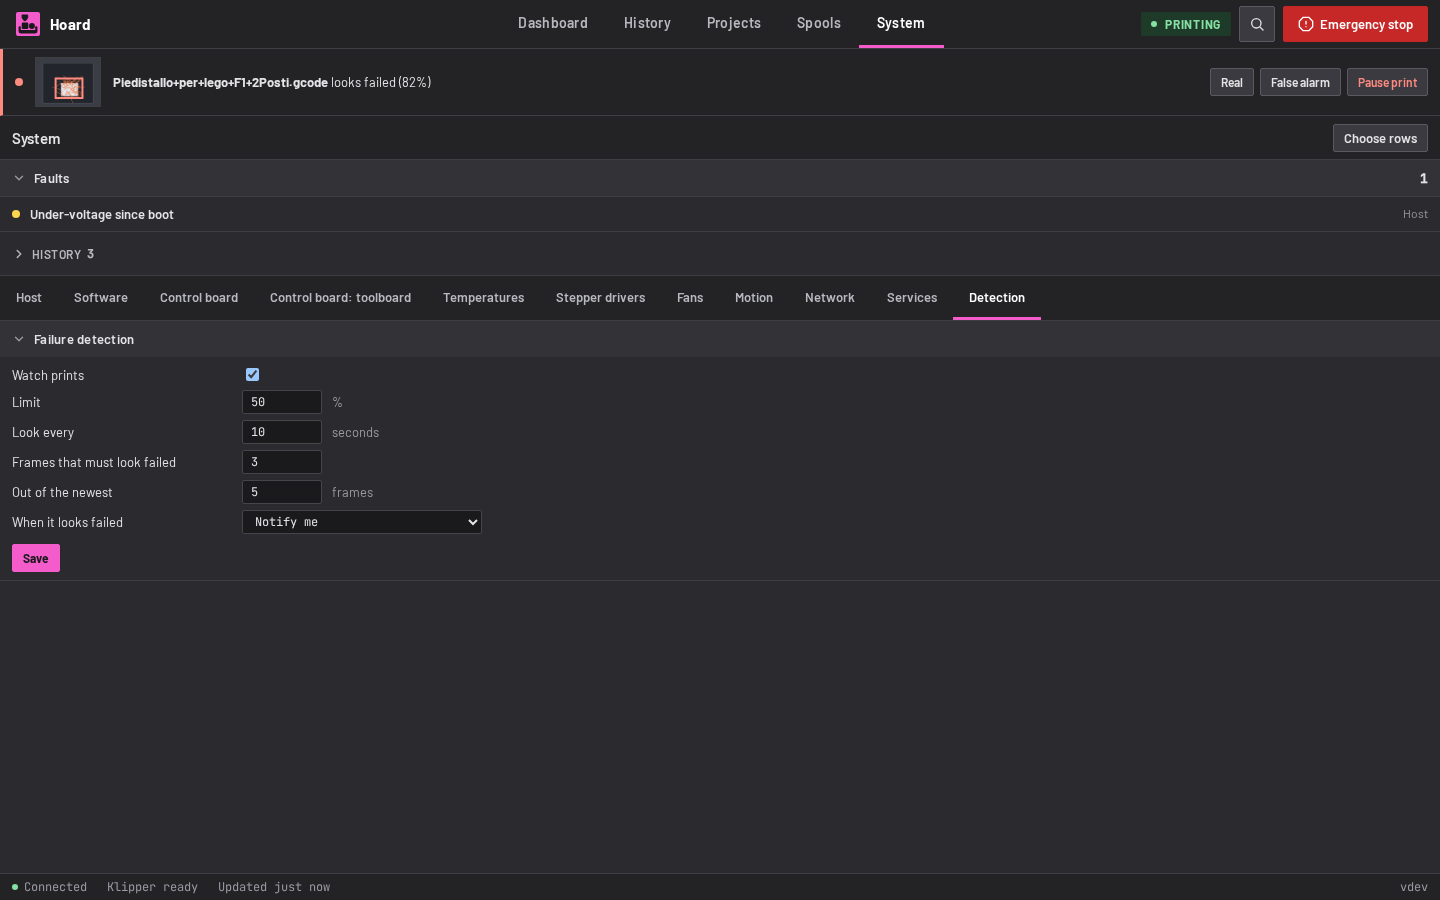
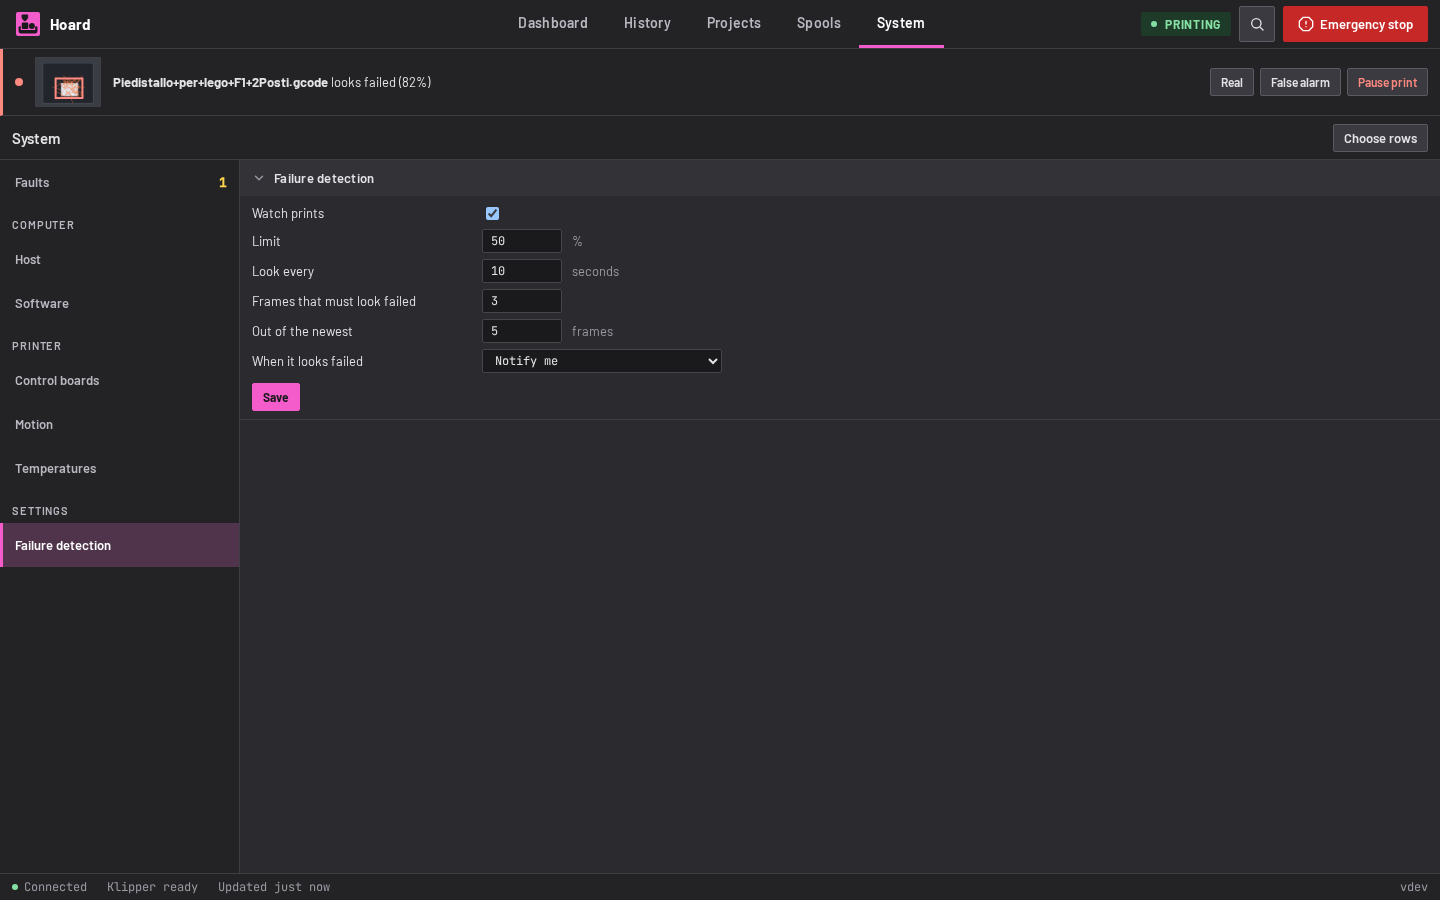
feat(system): related report sections on one page, listed by heading, with Faults and detection as pages
A list on the left (a page of its own on a phone) replaces the tabs: Faults, then the
Computer and Printer pages, then Failure detection under Settings. Host holds the host,
storage and network; Software the software and services; Control boards every board;
Motion the motion, stepper drivers and filament sensors; Temperatures the temperatures
and fans. A section nobody knows goes on Other. The references are rendered from the
redrawn boards.

diff --git a/frontend/src/pages/system-page.ts b/frontend/src/pages/system-page.ts
@@ -6,12 +6,15 @@ import '../components/detection-settings'
 import { renderIcon } from '../icons'
 import { formatPrintDuration } from '../print-history-list'
 import type { FaultRecord, SystemFault, SystemReport, SystemRow, SystemSection } from '../types'
+import { groupSections } from './system-pages'
+import type { SystemPageEntry } from './system-pages'
 import '../styles/system.css'
 
 type StopFunction = () => void
 type LoadState = 'loading' | 'ready' | 'error'
 
-const DETECTION_TAB = 'detection'
+const FAULTS_PAGE = 'faults'
+const DETECTION_PAGE = 'detection'
 
 const REFRESH_MILLISECONDS = 10_000
 const MILLISECONDS_PER_SECOND = 1000
@@ -59,7 +62,7 @@ export class SystemPage extends LitElement {
   @state() private isChoosingRows = false
   @state() private hiddenKeys: string[] = []
   @state() private isHistoryOpen = false
-  @state() private chosenTab = ''
+  @state() private openPageKey: string | null = null
 
   private stopRefreshing: StopFunction | null = null
 
@@ -172,47 +175,66 @@ export class SystemPage extends LitElement {
     </section>`
   }
 
-  private visibleSections(report: SystemReport): SystemSection[] {
-    return findVisibleSections(report.sections, this.hiddenKeys)
-  }
-
-  private openTab(sections: SystemSection[]): string {
-    const names = [...sections.map((section) => section.key), DETECTION_TAB]
-    return names.includes(this.chosenTab) ? this.chosenTab : names[0]
-  }
-
-  private renderTab(key: string, title: string, openTab: string): TemplateResult {
-    const isSelected = key === openTab
+  private renderListItem(key: string, title: string, openKey: string, count?: number): TemplateResult {
+    const isSelected = key === openKey
     return html`<button
-      class="system-tab ${isSelected ? 'selected' : ''}"
-      role="tab"
-      aria-selected=${isSelected}
-      @click=${() => (this.chosenTab = key)}
+      class="system-list-item ${isSelected ? 'selected' : ''}"
+      aria-current=${isSelected ? 'page' : nothing}
+      @click=${() => (this.openPageKey = key)}
     >
-      ${title}
+      <span class="system-list-title">${title}</span>
+      ${count === undefined ? nothing : html`<span class="monospace system-list-count">${count}</span>`}
+      <span class="system-list-chevron">${renderIcon('chevron-right', 14, 2.4)}</span>
     </button>`
   }
 
-  private renderTabs(sections: SystemSection[], openTab: string): TemplateResult {
-    return html`<div class="system-tabs" role="tablist" aria-label="System">
-      ${sections.map((section) => this.renderTab(section.key, section.title, openTab))}
-      ${this.renderTab(DETECTION_TAB, 'Detection', openTab)}
+  private renderListGroup(heading: string, pages: SystemPageEntry[], openKey: string): TemplateResult {
+    const pagesUnderHeading = pages.filter((page) => page.heading === heading)
+    return html`<div class="system-list-heading">${heading}</div>
+      ${pagesUnderHeading.map((page) => this.renderListItem(page.key, page.title, openKey))}`
+  }
+
+  private renderList(report: SystemReport, pages: SystemPageEntry[], openKey: string): TemplateResult {
+    const headings = [...new Set(pages.map((page) => page.heading))]
+    return html`<nav class="system-list" aria-label="System">
+      ${this.renderListItem(FAULTS_PAGE, 'Faults', openKey, report.active_faults.length)}
+      ${headings.map((heading) => this.renderListGroup(heading, pages, openKey))}
+      <div class="system-list-heading">Settings</div>
+      ${this.renderListItem(DETECTION_PAGE, 'Failure detection', openKey)}
+    </nav>`
+  }
+
+  private renderPageContent(report: SystemReport, pages: SystemPageEntry[], openKey: string): TemplateResult {
+    if (openKey === FAULTS_PAGE) return this.renderFaults(report)
+    if (openKey === DETECTION_PAGE) return html`<detection-settings></detection-settings>`
+    const page = pages.find((candidate) => candidate.key === openKey)!
+    return html`<div class="system-sections">${page.sections.map((section) => this.renderSection(section))}</div>`
+  }
+
+  private renderPane(report: SystemReport, pages: SystemPageEntry[], openKey: string): TemplateResult {
+    return html`<div class="system-pane">
+      <button class="system-back" @click=${() => (this.openPageKey = null)}>
+        ${renderIcon('chevron-left', 14, 2.4)}System
+      </button>
+      ${this.renderPageContent(report, pages, openKey)}
     </div>`
   }
 
-  private renderChosenTab(sections: SystemSection[], openTab: string): TemplateResult {
-    if (openTab === DETECTION_TAB) return html`<detection-settings></detection-settings>`
-    const section = sections.find((candidate) => candidate.key === openTab)!
-    return html`<div class="system-sections">${this.renderSection(section)}</div>`
+  private openKey(pages: SystemPageEntry[]): string {
+    const keys = [FAULTS_PAGE, DETECTION_PAGE, ...pages.map((page) => page.key)]
+    if (this.openPageKey !== null && keys.includes(this.openPageKey)) return this.openPageKey
+    return pages[0]?.key ?? FAULTS_PAGE
   }
 
   private renderReports(report: SystemReport): TemplateResult {
     if (this.isChoosingRows) {
       return html`<div class="system-sections">${report.sections.map((section) => this.renderSection(section))}</div>`
     }
-    const sections = this.visibleSections(report)
-    const openTab = this.openTab(sections)
-    return html`${this.renderTabs(sections, openTab)} ${this.renderChosenTab(sections, openTab)}`
+    const pages = groupSections(findVisibleSections(report.sections, this.hiddenKeys))
+    const openKey = this.openKey(pages)
+    return html`<div class="system-body" ?data-open=${this.openPageKey !== null}>
+      ${this.renderList(report, pages, openKey)} ${this.renderPane(report, pages, openKey)}
+    </div>`
   }
 
   private renderChooseRowsButton(report: SystemReport): TemplateResult | typeof nothing {
@@ -235,9 +257,7 @@ export class SystemPage extends LitElement {
   render(): TemplateResult {
     if (this.loadState === 'loading') return html`<div class="state-message">Loading system…</div>`
     if (!this.report) return html`<div class="state-message">Could not load the system information</div>`
-    return html`<div class="system-layout">
-      ${this.renderStrip(this.report)} ${this.renderFaults(this.report)} ${this.renderReports(this.report)}
-    </div>`
+    return html`<div class="system-layout">${this.renderStrip(this.report)} ${this.renderReports(this.report)}</div>`
   }
 }
 

diff --git a/frontend/src/styles/system.css b/frontend/src/styles/system.css
@@ -147,6 +147,77 @@
   margin-left: 0;
 }
 
+.system-body {
+  display: flex;
+  align-items: stretch;
+  min-height: 100%;
+}
+
+.system-list {
+  flex: none;
+  box-sizing: border-box;
+  width: 240px;
+  padding-bottom: 8px;
+  background: var(--chrome-color);
+  border-right: 1px solid var(--border-color);
+}
+
+.system-list-heading {
+  padding: 14px 12px 6px;
+  font: 600 11px var(--font-family);
+  letter-spacing: 0.08em;
+  text-transform: uppercase;
+  color: var(--secondary-text-color);
+}
+
+.system-list-item {
+  display: flex;
+  align-items: center;
+  box-sizing: border-box;
+  width: 100%;
+  min-height: 44px;
+  padding: 0 12px;
+  border: 0;
+  border-left: 3px solid transparent;
+  background: transparent;
+  color: var(--secondary-text-color);
+  font: 600 13px var(--font-family);
+  text-align: left;
+  cursor: pointer;
+}
+
+.system-list-item.selected {
+  background: var(--selection-tint);
+  border-left-color: var(--accent);
+  color: #fff;
+}
+
+.system-list-title {
+  flex: 1;
+  text-align: left;
+}
+
+.system-list-count {
+  color: #ffd54f;
+}
+
+.system-list-chevron {
+  display: none;
+}
+
+.system-pane {
+  flex: 1;
+  min-width: 0;
+}
+
+.system-back {
+  display: none;
+}
+
+.system-pane .system-sections {
+  columns: 2 320px;
+}
+
 @media (max-width: 800px) {
   .system-layout {
     height: auto;
@@ -171,8 +242,58 @@
     min-height: 36px;
   }
 
-  .system-sections {
+  .system-sections,
+  .system-pane .system-sections {
     columns: auto;
+  }
+
+  .system-list {
+    width: auto;
+    flex: 1;
+    border-right: 0;
+  }
+
+  .system-list-item {
+    min-height: 52px;
+    padding: 0 16px;
+    border-bottom: 1px solid var(--border-color);
+    font-size: 14px;
+  }
+
+  .system-list-item.selected {
+    background: transparent;
+    border-left-color: transparent;
+    color: var(--secondary-text-color);
+  }
+
+  .system-list-chevron {
+    display: flex;
+    margin-left: 8px;
+  }
+
+  .system-list-count {
+    margin-left: auto;
+  }
+
+  .system-body:not([data-open]) .system-pane,
+  .system-body[data-open] .system-list {
+    display: none;
+  }
+
+  .system-back {
+    display: flex;
+    align-items: center;
+    gap: 6px;
+    box-sizing: border-box;
+    width: 100%;
+    min-height: 44px;
+    padding: 0 16px;
+    border: 0;
+    border-bottom: 1px solid var(--border-color);
+    background: var(--chrome-color);
+    color: var(--secondary-text-color);
+    font: 600 13px var(--font-family);
+    cursor: pointer;
   }
 
   .active-fault,
@@ -204,30 +325,6 @@
     min-height: 44px;
     align-items: center;
   }
-}
-
-.system-tabs {
-  display: flex;
-  overflow-x: auto;
-  background: var(--chrome-color);
-  border-bottom: 1px solid var(--border-color);
-}
-
-.system-tab {
-  flex: none;
-  min-height: 44px;
-  padding: 0 16px;
-  border: 0;
-  border-bottom: 3px solid transparent;
-  background: transparent;
-  color: var(--secondary-text-color);
-  font: 600 13px var(--font-family);
-  cursor: pointer;
-}
-
-.system-tab.selected {
-  border-bottom-color: var(--accent);
-  color: #fff;
 }
 
 .fault-history-toggle {

diff --git a/frontend/src/pages/system-pages.ts b/frontend/src/pages/system-pages.ts
@@ -1,0 +1,50 @@
+import type { SystemSection } from '../types'
+
+/** One page of the system list: a few related sections of the report under a heading. */
+export interface SystemPageEntry {
+  key: string
+  title: string
+  heading: string
+  sections: SystemSection[]
+}
+
+interface PageDefinition {
+  key: string
+  title: string
+  heading: string
+  sectionKeys: string[]
+  sectionKeyPrefix?: string
+}
+
+const COMPUTER = 'Computer'
+const PRINTER = 'Printer'
+
+const PAGE_DEFINITIONS: PageDefinition[] = [
+  { key: 'host', title: 'Host', heading: COMPUTER, sectionKeys: ['host', 'storage', 'network'] },
+  { key: 'software', title: 'Software', heading: COMPUTER, sectionKeys: ['software', 'services'] },
+  { key: 'control-boards', title: 'Control boards', heading: PRINTER, sectionKeys: [], sectionKeyPrefix: 'board.' },
+  { key: 'motion', title: 'Motion', heading: PRINTER, sectionKeys: ['motion', 'drivers', 'filament'] },
+  { key: 'temperatures', title: 'Temperatures', heading: PRINTER, sectionKeys: ['temperatures', 'fans'] },
+]
+
+const OTHER_PAGE: PageDefinition = { key: 'other', title: 'Other', heading: 'Other', sectionKeys: [] }
+
+function belongsTo(definition: PageDefinition, section: SystemSection): boolean {
+  if (definition.sectionKeys.includes(section.key)) return true
+  return definition.sectionKeyPrefix !== undefined && section.key.startsWith(definition.sectionKeyPrefix)
+}
+
+function findDefinition(section: SystemSection): PageDefinition {
+  return PAGE_DEFINITIONS.find((definition) => belongsTo(definition, section)) ?? OTHER_PAGE
+}
+
+function createPage(definition: PageDefinition, sections: SystemSection[]): SystemPageEntry {
+  const { key, title, heading } = definition
+  return { key, title, heading, sections: sections.filter((section) => findDefinition(section) === definition) }
+}
+
+/** The sections of the report, put on the pages they belong to. A section nobody knows goes on Other. */
+export function groupSections(sections: SystemSection[]): SystemPageEntry[] {
+  const pages = [...PAGE_DEFINITIONS, OTHER_PAGE].map((definition) => createPage(definition, sections))
+  return pages.filter((page) => page.sections.length > 0)
+}

diff --git a/frontend/parity/detection_fixture.py b/frontend/parity/detection_fixture.py
@@ -50,7 +50,7 @@ DETECTION_SHOWCASE_SCREENS = {
     "dashboard-alert-desktop": DetectionScreen("/", DESKTOP_SIZE, "dashboard-alert.png"),
     "detections-desktop": DetectionScreen("/detections", DESKTOP_SIZE, "detections.png"),
     "detection-settings-desktop": DetectionScreen(
-        "/system", DESKTOP_SIZE, "detection-settings.png", (("click", ".system-tab:last-child"),)
+        "/system", DESKTOP_SIZE, "detection-settings.png", (("click", ".system-list-item:last-child"),)
     ),
     "dashboard-alert-phone": DetectionScreen("/", PHONE_SIZE, "dashboard-alert-phone.png"),
 }

diff --git a/README.md b/README.md
@@ -18,7 +18,7 @@ It works on a phone as well, with the same features as on desktop: printer power
 |---|---|---|---|
 | ![](docs/screenshots/dashboard-phone.png) | ![](docs/screenshots/history-phone.png) | ![](docs/screenshots/spools-phone.png) | ![](docs/screenshots/spool-sheet-phone.png) |
 
-Print failure detection is optional and off until you give it a detector ([how](https://github.com/stevendejongnl/Hoard/wiki/Failure-detection)). When a print looks failed, a banner shows the image and asks whether the alert was real; the settings, including whether Hoard only notifies or also pauses the print, are on the Detection tab of the System page.
+Print failure detection is optional and off until you give it a detector ([how](https://github.com/stevendejongnl/Hoard/wiki/Failure-detection)). When a print looks failed, a banner shows the image and asks whether the alert was real; the settings, including whether Hoard only notifies or also pauses the print, are on the Failure detection page of the System page.
 
 | A failed print | The Detections page | Settings |
 |---|---|---|
@@ -38,7 +38,7 @@ The screenshots are taken from the app filled with sample data (`python3 -m fron
 - **Notifications.** Web push when a print finishes or fails.
 - **Failure detection (optional).** A detector judges the camera while a print runs. When enough of the newest images look failed, a banner on every page shows the image with the buttons Real and False alarm, a push notification opens the Detections page, and the print is paused if you chose that. Your verdicts suggest a limit, and the labelled images download as a dataset. It stays off and hidden until you set a detector: Obico's `ml_api` in a container of its own, or a vision model, which is a service outside your network. See the wiki's Failure detection page.
 - **Appearance.** One accent colour, set by hex in the status bar.
-- **System.** What the printer's host and control boards report, whatever the hardware is, with the active faults and, behind a toggle, a history of them. A tab for each section keeps the page short. Under-voltage shows on a host that reports it. Rows and sections can be hidden.
+- **System.** What the printer's host and control boards report, whatever the hardware is, with the active faults and, behind a toggle, a history of them. Related sections share a page (the host with its network, the software with its services, the control boards, motion with the stepper drivers, temperatures with fans), listed by heading, so the page stays short. Under-voltage shows on a host that reports it. Rows and sections can be hidden.
 
 ## What it expects
 
